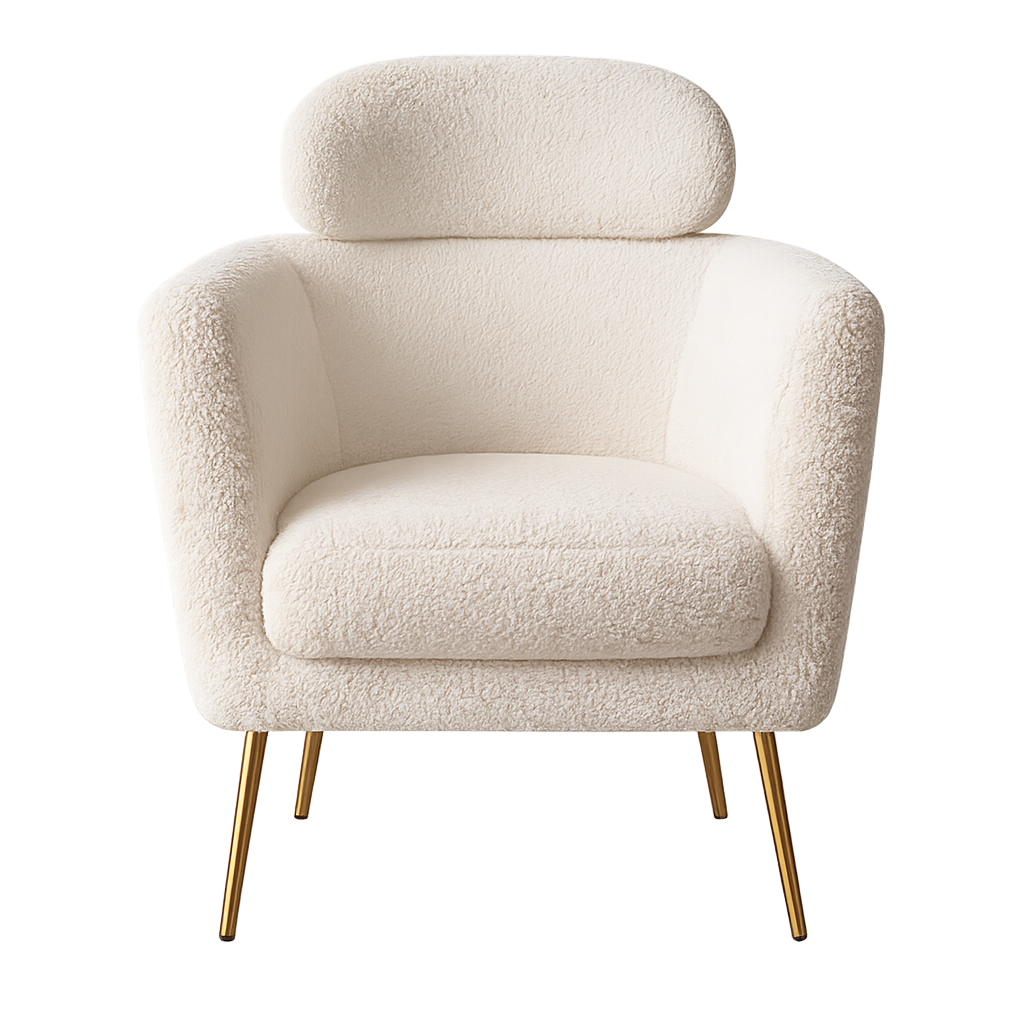
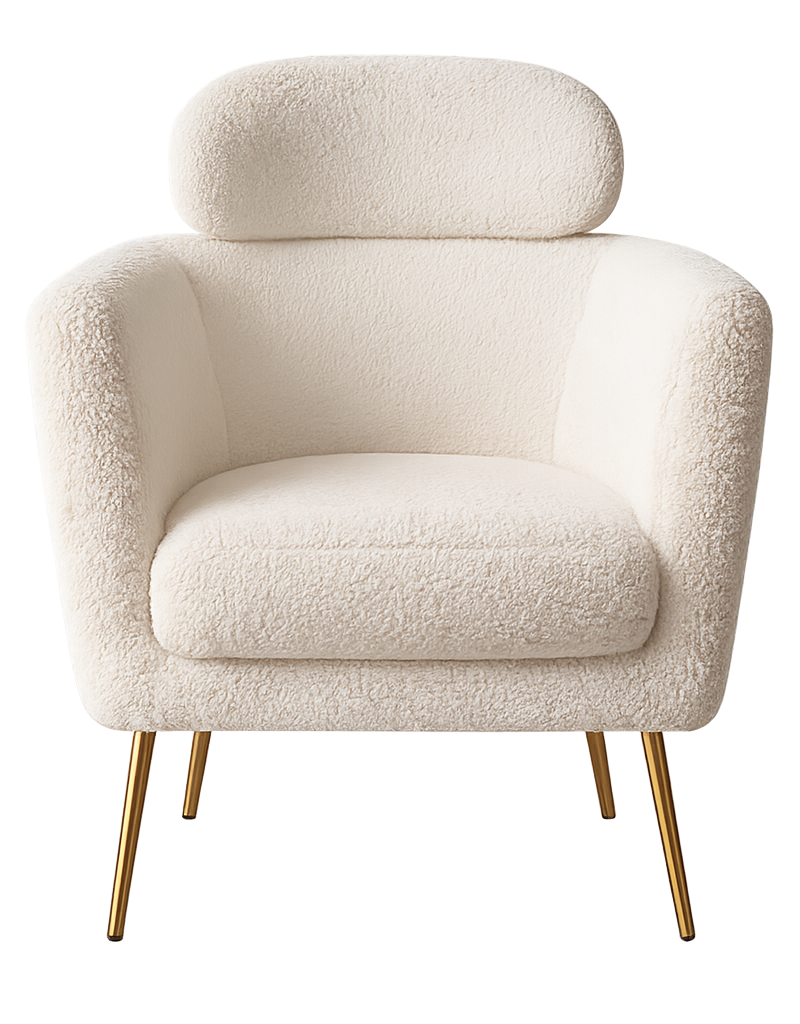
fix archive components position

Changed region(s): [[0.0312, 0.0312, 0.9688, 0.9375], [0.6562, 0.375, 0.6875, 0.4375]]

diff --git a/src/pages/Archive.css b/src/pages/Archive.css
@@ -15,9 +15,9 @@
 
     .chair {
       position: fixed;
-      width: 450px;
+      width: 350px;
       left: 0px;
-      bottom: 4vh;
+      bottom: 0;
       z-index: 1;
       filter: drop-shadow(10px 0 6px #00000066);
 
@@ -30,10 +30,9 @@
     .console {
       position: fixed;
       width: 550px;
-      left: 50%;
+      left: 450px;
       bottom: 11vh;
       z-index: 1;
-      transform: translate(-50%);
       filter: drop-shadow(10px 0 6px #00000066);
 
       img {
@@ -45,14 +44,12 @@
     .wall {
       width: 3300px;
       height: 100%;
-      background: url(../assets/images/wall_mint.png) repeat-x;
+      background: url(../assets/images/wall_mint.png) repeat-x bottom -30px left;
       background-size: cover;
 
-      img> {
+      img > {
         width: 3000px;
       }
-
-
 
       .item {
         .frame-small {
@@ -70,7 +67,7 @@
           }
 
           .photo-description {
-            background: #FFF;
+            background: #fff;
             width: 40%;
             font-size: 8px;
             padding: 2px 3px;
@@ -150,7 +147,7 @@
   }
 }
 
-@media screen and (max-width:800px) {
+@media screen and (max-width: 800px) {
   #wrap-archive {
     height: 4200px;
   }
@@ -160,6 +157,8 @@
   }
 
   #wrap-archive .box-wall .console {
+    left: 50%;
+    transform: translateX(-50%);
     width: 95vw;
   }
 }

diff --git a/src/App.css b/src/App.css
@@ -15,10 +15,6 @@ ul {
   box-sizing: border-box;
 }
 
-/* :root {
-  background: var(--body-background);
-} */
-
 .theme-light {
   --primary-color: #fff;
   --secondary-color: #fff;
@@ -31,11 +27,6 @@ ul {
   --secondary-color: #fff;
   --font-color: #cae3fb;
   --bg-color: #384861;
-}
-
-.App-header {
-  background-color: var(--body-background);
-  color: var(--body-color);
 }
 
 #wrap-main {

diff --git a/src/components/DarkModeSlider.tsx b/src/components/DarkModeSlider.tsx
@@ -2,19 +2,19 @@ import React from 'react';
 
 const DarkModeSlider = () => {
   const setDarkMode = () => {
-    document.querySelector('#wrap-main')?.setAttribute('data-theme', 'dark');
+    document.querySelector('#wrap-main')?.setAttribute('page-theme', 'dark');
     localStorage.setItem('selectedTheme', 'dark');
-    console.log('set dark mode');
   };
   const setLightMode = () => {
-    document.querySelector('#wrap-main')?.setAttribute('data-theme', 'light');
+    document.querySelector('#wrap-main')?.setAttribute('page-theme', 'light');
     localStorage.setItem('selectedTheme', 'light');
-    console.log('set light mode');
   };
   const selectedTheme = localStorage.getItem('selectedTheme');
 
   if (selectedTheme === 'dark') {
     setDarkMode();
+  } else {
+    setLightMode;
   }
 
   const toggleTheme = (e: React.ChangeEvent<HTMLInputElement>) => {

diff --git a/src/index.css b/src/index.css
@@ -1,14 +1,14 @@
 /* global style css */
 :root {
   /* --body-background: url(./assets/images/bg_dreamy_pink.png) no-repeat; */
-  --body-background: #FFF;
+  --body-background: #fff;
   /* --body-background: url(../public/images/bg_dreamy_pink.png) no-repeat; */
   /* public/images */
   --body-color: #0a093f;
   --link-color: dodgerblue;
 }
 
-[data-theme='dark'] {
+[page-theme='dark'] {
   --body-background: url(./assets/images/bg_dark_galaxy.png) no-repeat;
   --body-color: #cae3fb;
   --link-color: cyan;